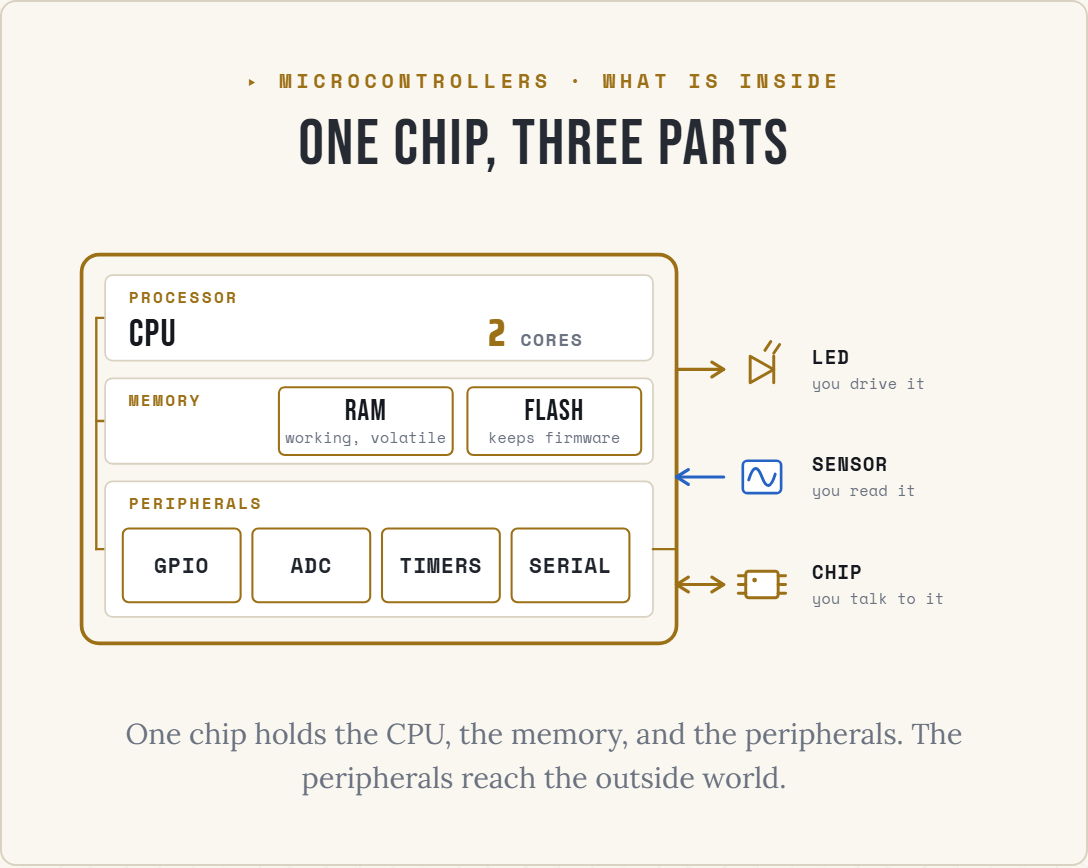
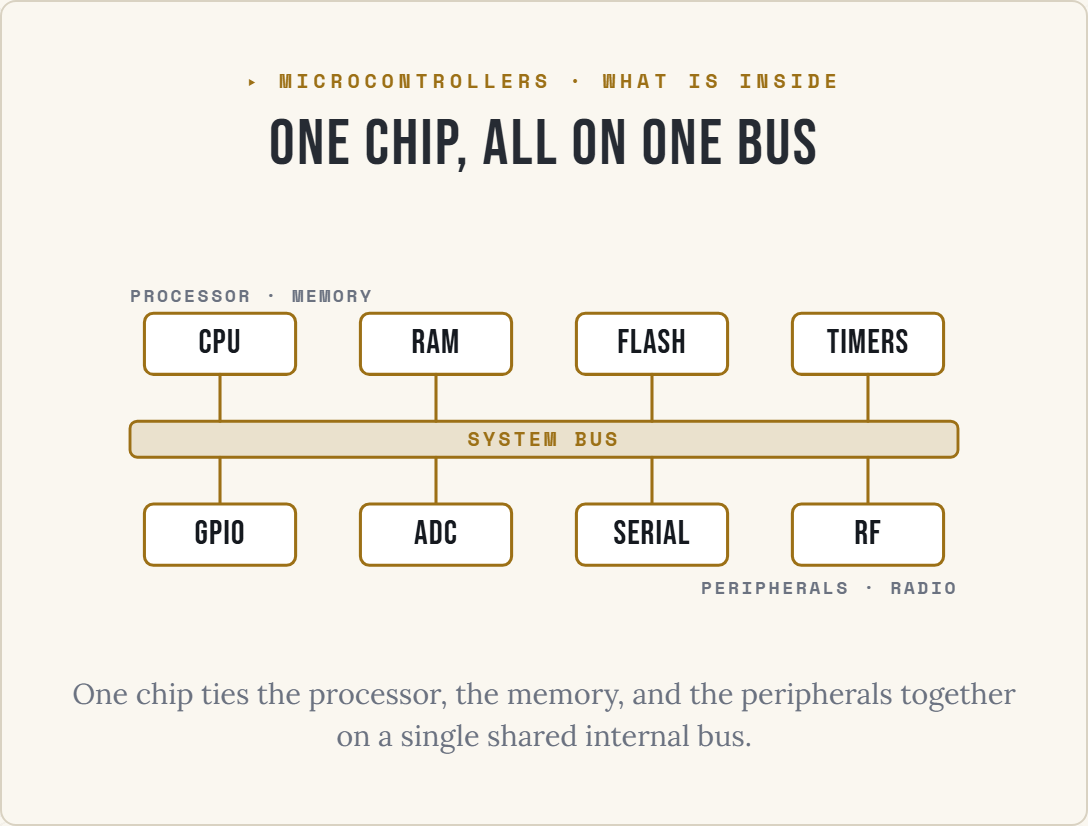
feat(diagrams): rebuild mcu-block-diagram to owner-picked B9 (bus spine)
Diagram 1 redesigned via the round-2 sandbox: owner picked B9, "the bus spine".
A single horizontal system bus with the processor + memory + timers tapping it
above and the peripherals + radio below, so the teaching point is that one chip
ties everything together on one shared internal bus. Landscape 1.33, token-only,
reflows to the bus banner + grouped rows under 520px. Verified dark + light +
print; diagrams:check OK (50).

diff --git a/src/components/guide/diagrams/McuBlockDiagram.tsx b/src/components/guide/diagrams/McuBlockDiagram.tsx
@@ -1,136 +1,73 @@
 // What is inside a microcontroller (v2). Microcontrollers & ESP32 cluster.
+// Owner-picked composition B9 ("the bus spine") from the diagram-1 round-2 sandbox.
 //
-// Teaching point: a microcontroller is one chip that holds the processor, the
-// memory, and the peripherals. The CPU and memory stay inside; the peripherals
-// (GPIO, ADC, timers, serial) are the bridge that reaches the outside world.
+// Teaching point: a microcontroller is one chip that ties a processor, memory,
+// and a set of peripherals together on a single shared internal bus. The CPU, the
+// RAM and flash, and the peripheral blocks (GPIO, ADC, timers, serial, radio) all
+// hang off that one bus.
 //
-// Landscape desktop/print: the die on the left with three stacked zones
-// (processor, memory, peripherals) tied by an internal bus, wired out on the
-// right to three things in the world (an LED it drives, a sensor it reads, a chip
-// it talks to). REFLOWS on a phone to full-width stacked cards. Token-only color.
+// Landscape desktop/print: a horizontal system bus with the blocks tapping it
+// above and below. REFLOWS on a phone to the bus + a grouped block list.
+// Token-only color.
 import { DiagramFrame } from "./DiagramFrame";
 
-function Led({ x, y }: { x: number; y: number }) {
-  return (
-    <g transform={`translate(${x},${y})`}>
-      <path className="bd-glyph-g" d="M-8,-9 L-8,9 L8,0 Z" />
-      <line className="bd-glyph-g" x1={8} y1={-9} x2={8} y2={9} />
-      <path className="bd-glyph-g" d="M2,-13 L6,-19 M8,-11 L12,-17" fill="none" />
-    </g>
-  );
-}
-
-function SensorWave({ x, y }: { x: number; y: number }) {
-  return (
-    <g transform={`translate(${x},${y})`}>
-      <rect className="bd-glyph-b-fill" x={-13} y={-11} width={26} height={22} rx={3} />
-      <path className="bd-glyph-b" fill="none" d="M-9,2 C-6,-8 -3,-8 0,0 C3,8 6,8 9,-2" />
-    </g>
-  );
-}
-
-function ChipIc({ x, y }: { x: number; y: number }) {
-  return (
-    <g transform={`translate(${x},${y})`}>
-      <rect className="bd-glyph-g-fill" x={-11} y={-9} width={22} height={18} rx={2} />
-      <circle className="bd-glyph-dot" cx={-5} cy={-3} r={1.6} />
-      {[-6, 0, 6].map((o) => (
-        <line key={`l${o}`} className="bd-glyph-g" x1={-11} y1={o} x2={-16} y2={o} />
-      ))}
-      {[-6, 0, 6].map((o) => (
-        <line key={`r${o}`} className="bd-glyph-g" x1={11} y1={o} x2={16} y2={o} />
-      ))}
-    </g>
-  );
-}
+const TOP = [
+  { n: "CPU", x: 90 }, { n: "RAM", x: 210 }, { n: "FLASH", x: 330 }, { n: "TIMERS", x: 450 },
+];
+const BOT = [
+  { n: "GPIO", x: 90 }, { n: "ADC", x: 210 }, { n: "SERIAL", x: 330 }, { n: "RF", x: 450 },
+];
+const BUS_Y = 104, BUS_H = 20;
 
 export function McuBlockDiagram({ caption }: { caption?: string }) {
   return (
     <DiagramFrame
       eyebrow="MICROCONTROLLERS · WHAT IS INSIDE"
       tone="gold"
-      title="One chip, three parts"
-      ariaLabel="What is inside a microcontroller, drawn as one chip. The die holds three stacked zones tied by an internal bus. The processor zone is the CPU, with 2 cores on the ESP32-S3. The memory zone holds RAM, the working memory that is volatile, and flash, which keeps the firmware. The peripherals zone holds GPIO, ADC, timers, and serial blocks. The peripherals are the bridge to the outside world: the chip drives an LED, reads a sensor, and talks to another chip."
+      title="One chip, all on one bus"
+      ariaLabel="What is inside a microcontroller, drawn as a shared internal bus. A single system bus runs across the middle of the chip, and every block hangs off it. Above the bus sit the processor (the CPU) and the memory (RAM, the working memory, and flash, which keeps the firmware), along with the timers. Below the bus sit the peripherals that reach the outside world: GPIO, the ADC, the serial buses, and the radio. Because they all share one bus on one die, the CPU can read and write any of them. That is what makes it one chip instead of a boardful of parts."
       caption={caption}
-      defaultCaption="One chip holds the CPU, the memory, and the peripherals. The peripherals reach the outside world."
+      defaultCaption="One chip ties the processor, the memory, and the peripherals together on a single shared internal bus."
     >
       <style>{CSS}</style>
 
       <div className="bd">
         {/* desktop / print */}
-        <svg className="bd-scene" viewBox="0 0 660 292" aria-hidden="true">
-          {/* the die */}
-          <rect className="bd-die" x={16} y={14} width={404} height={264} rx={12} />
+        <svg className="bd-scene" viewBox="0 0 540 216" aria-hidden="true">
+          {/* the system bus */}
+          <rect className="bd-busfill" x={40} y={BUS_Y} width={460} height={BUS_H} rx={4} />
+          <rect className="bd-busln" x={40} y={BUS_Y} width={460} height={BUS_H} rx={4} />
+          <text className="bd-buslbl" x={270} y={BUS_Y + 14} textAnchor="middle">SYSTEM BUS</text>
 
-          {/* internal bus spine + taps */}
-          <line className="bd-bus" x1={26} y1={57} x2={26} y2={214} />
-          <line className="bd-bus" x1={26} y1={57} x2={32} y2={57} />
-          <line className="bd-bus" x1={26} y1={127} x2={32} y2={127} />
-          <line className="bd-bus" x1={26} y1={214} x2={32} y2={214} />
-
-          {/* PROCESSOR zone */}
-          <rect className="bd-zone" x={32} y={28} width={372} height={58} rx={5} />
-          <text className="bd-zeye" x={48} y={47}>PROCESSOR</text>
-          <text className="bd-name" x={48} y={76}>CPU</text>
-          <text className="bd-num" x={292} y={76}>2</text>
-          <text className="bd-nlabel" x={314} y={76}>CORES</text>
-
-          {/* MEMORY zone */}
-          <rect className="bd-zone" x={32} y={98} width={372} height={58} rx={5} />
-          <text className="bd-zeye" x={48} y={117}>MEMORY</text>
-          <rect className="bd-cell" x={150} y={104} width={118} height={46} rx={4} />
-          <text className="bd-cname" x={209} y={126} textAnchor="middle">RAM</text>
-          <text className="bd-note" x={209} y={142} textAnchor="middle">working, volatile</text>
-          <rect className="bd-cell" x={278} y={104} width={118} height={46} rx={4} />
-          <text className="bd-cname" x={337} y={126} textAnchor="middle">FLASH</text>
-          <text className="bd-note" x={337} y={142} textAnchor="middle">keeps firmware</text>
-
-          {/* PERIPHERALS zone */}
-          <rect className="bd-zone" x={32} y={168} width={372} height={92} rx={5} />
-          <text className="bd-zeye" x={48} y={187}>PERIPHERALS</text>
-          {["GPIO", "ADC", "TIMERS", "SERIAL"].map((p, i) => (
-            <g key={p}>
-              <rect className="bd-cell" x={44 + i * 88} y={200} width={80} height={50} rx={4} />
-              <text className="bd-pname" x={84 + i * 88} y={230} textAnchor="middle">{p}</text>
+          {/* top blocks + taps */}
+          {TOP.map((b) => (
+            <g key={b.n}>
+              <rect className="bd-blk" x={b.x - 42} y={44} width={84} height={34} rx={5} />
+              <text className="bd-nm" x={b.x} y={66} textAnchor="middle">{b.n}</text>
+              <line className="bd-tap" x1={b.x} y1={78} x2={b.x} y2={BUS_Y} />
             </g>
           ))}
 
-          {/* peripherals reach out: right-edge spine tapped from the peripheral zone */}
-          <line className="bd-bus" x1={404} y1={214} x2={420} y2={214} />
-          <line className="bd-out" x1={420} y1={92} x2={420} y2={238} />
+          {/* bottom blocks + taps */}
+          {BOT.map((b) => (
+            <g key={b.n}>
+              <line className="bd-tap" x1={b.x} y1={BUS_Y + BUS_H} x2={b.x} y2={150} />
+              <rect className="bd-blk" x={b.x - 42} y={150} width={84} height={34} rx={5} />
+              <text className="bd-nm" x={b.x} y={172} textAnchor="middle">{b.n}</text>
+            </g>
+          ))}
 
-          {/* LED — driven (gold, out) */}
-          <line className="bd-out" x1={420} y1={92} x2={452} y2={92} />
-          <path className="bd-out" fill="none" d="M444,87 L452,92 L444,97" />
-          <Led x={478} y={92} />
-          <text className="bd-wname" x={512} y={88}>LED</text>
-          <text className="bd-note" x={512} y={105}>you drive it</text>
-
-          {/* SENSOR — read (blue, in) */}
-          <line className="bd-in" x1={452} y1={165} x2={420} y2={165} />
-          <path className="bd-in" fill="none" d="M428,160 L420,165 L428,170" />
-          <SensorWave x={478} y={165} />
-          <text className="bd-wname" x={512} y={161}>SENSOR</text>
-          <text className="bd-note" x={512} y={178}>you read it</text>
-
-          {/* CHIP — talk (gold, both ways) */}
-          <line className="bd-out" x1={420} y1={238} x2={452} y2={238} />
-          <path className="bd-out" fill="none" d="M444,233 L452,238 L444,243" />
-          <path className="bd-out" fill="none" d="M428,233 L420,238 L428,243" />
-          <ChipIc x={478} y={238} />
-          <text className="bd-wname" x={512} y={234}>CHIP</text>
-          <text className="bd-note" x={512} y={251}>you talk to it</text>
+          {/* role labels in the gutters */}
+          <text className="bd-role" x={40} y={38} textAnchor="start">PROCESSOR · MEMORY</text>
+          <text className="bd-role" x={500} y={200} textAnchor="end">PERIPHERALS · RADIO</text>
         </svg>
 
         {/* phone reflow */}
         <div className="bd-phone" aria-hidden="true">
-          <p className="bd-phd">Inside the chip</p>
+          <p className="bd-pbus">SYSTEM BUS <span>ties it all together</span></p>
           <div className="bd-prow"><span className="bd-peye">Processor</span><span className="bd-pv">CPU · 2 cores</span></div>
           <div className="bd-prow"><span className="bd-peye">Memory</span><span className="bd-pv">RAM (volatile) · FLASH (firmware)</span></div>
-          <div className="bd-prow"><span className="bd-peye">Peripherals</span><span className="bd-pv">GPIO · ADC · TIMERS · SERIAL</span></div>
-          <p className="bd-parrow">the peripherals reach out to</p>
-          <p className="bd-phd">The world</p>
-          <div className="bd-pworld"><span>LED <em>drive it</em></span><span>SENSOR <em>read it</em></span><span>CHIP <em>talk to it</em></span></div>
+          <div className="bd-prow"><span className="bd-peye">Peripherals</span><span className="bd-pv">GPIO · ADC · TIMERS · SERIAL · RF</span></div>
         </div>
       </div>
     </DiagramFrame>
@@ -140,36 +77,20 @@ export function McuBlockDiagram({ caption }: { caption?: string }) {
 const CSS = `
 .bd{display:block;}
 .bd-scene{display:block;width:100%;height:auto;overflow:visible;}
-.bd-die{fill:none;stroke:var(--color-command-gold,#c8963e);stroke-width:2.5;}
-.bd-zone{fill:var(--color-navy-dark,#1a1a2e);stroke:var(--color-panel-border,#3a3f50);stroke-width:1.2;}
-.bd-cell{fill:none;stroke:var(--color-command-gold,#c8963e);stroke-width:1.4;}
-.bd-bus{stroke:var(--color-command-gold,#c8963e);stroke-width:1.6;stroke-linecap:round;}
-.bd-out{fill:none;stroke:var(--color-command-gold,#c8963e);stroke-width:2.2;stroke-linecap:round;stroke-linejoin:round;}
-.bd-in{fill:none;stroke:var(--color-signal-blue,#4a8fff);stroke-width:2.2;stroke-linecap:round;stroke-linejoin:round;}
-.bd-hd{font-family:var(--font-mono,"Space Mono",monospace);font-weight:700;font-size:11px;letter-spacing:.16em;fill:var(--color-muted,#aaa);}
-.bd-zeye{font-family:var(--font-mono,"Space Mono",monospace);font-weight:700;font-size:11px;letter-spacing:.14em;fill:var(--color-command-gold,#c8963e);}
-.bd-name{font-family:var(--font-display,"Bebas Neue",sans-serif);font-size:26px;letter-spacing:.03em;fill:var(--color-title,#f1ece0);}
-.bd-num{font-family:var(--font-numeral,"Saira Condensed",sans-serif);font-weight:800;font-size:26px;fill:var(--color-command-gold,#c8963e);}
-.bd-nlabel{font-family:var(--font-mono,"Space Mono",monospace);font-weight:700;font-size:12px;letter-spacing:.1em;fill:var(--color-muted,#aaa);}
-.bd-cname{font-family:var(--font-display,"Bebas Neue",sans-serif);font-size:20px;letter-spacing:.03em;fill:var(--color-title,#f1ece0);}
-.bd-pname{font-family:var(--font-mono,"Space Mono",monospace);font-weight:700;font-size:14px;letter-spacing:.06em;fill:var(--color-text,#e8e8e8);}
-.bd-wname{font-family:var(--font-mono,"Space Mono",monospace);font-weight:700;font-size:13px;letter-spacing:.05em;fill:var(--color-title,#f1ece0);}
-.bd-note{font-family:var(--font-mono,"Space Mono",monospace);font-weight:400;font-size:10.5px;fill:var(--color-muted,#aaa);}
-.bd-glyph-g{fill:none;stroke:var(--color-command-gold,#c8963e);stroke-width:2;stroke-linecap:round;stroke-linejoin:round;}
-.bd-glyph-g-fill{fill:var(--color-navy-dark,#1a1a2e);stroke:var(--color-command-gold,#c8963e);stroke-width:2;}
-.bd-glyph-b{fill:none;stroke:var(--color-signal-blue,#4a8fff);stroke-width:2;stroke-linecap:round;stroke-linejoin:round;}
-.bd-glyph-b-fill{fill:var(--color-navy-dark,#1a1a2e);stroke:var(--color-signal-blue,#4a8fff);stroke-width:1.8;}
-.bd-glyph-dot{fill:var(--color-command-gold,#c8963e);}
+.bd-busfill{fill:var(--color-command-gold,#c8963e);opacity:.16;}
+.bd-busln{fill:none;stroke:var(--color-command-gold,#c8963e);stroke-width:1.6;}
+.bd-blk{fill:var(--color-navy-dark,#1a1a2e);stroke:var(--color-command-gold,#c8963e);stroke-width:1.7;}
+.bd-tap{stroke:var(--color-command-gold,#c8963e);stroke-width:1.7;stroke-linecap:round;}
+.bd-buslbl{font-family:var(--font-mono,"Space Mono",monospace);font-weight:700;font-size:11px;letter-spacing:.16em;fill:var(--color-command-gold,#c8963e);}
+.bd-nm{font-family:var(--font-display,"Bebas Neue",sans-serif);font-size:19px;letter-spacing:.03em;fill:var(--color-title,#f1ece0);}
+.bd-role{font-family:var(--font-mono,"Space Mono",monospace);font-weight:700;font-size:10px;letter-spacing:.14em;fill:var(--color-muted,#aaa);}
 
 /* phone reflow */
 .bd-phone{display:none;}
 @media (max-width:520px){ .bd-scene{display:none;} .bd-phone{display:block;text-align:left;} }
-.bd-phd{margin:.2rem 0 .5rem;font-family:var(--font-mono,"Space Mono",monospace);font-weight:700;font-size:.72rem;letter-spacing:.16em;text-transform:uppercase;color:var(--color-muted,#aaa);}
+.bd-pbus{margin:0 0 .7rem;text-align:center;font-family:var(--font-mono,"Space Mono",monospace);font-weight:700;font-size:.82rem;letter-spacing:.14em;color:var(--color-command-gold,#c8963e);border:1px solid var(--color-command-gold,#c8963e);border-radius:5px;padding:.4rem;background:color-mix(in srgb, var(--color-command-gold,#c8963e) 12%, transparent);}
+.bd-pbus span{display:block;font-weight:400;font-size:.66rem;letter-spacing:.04em;color:var(--color-muted,#aaa);margin-top:.15rem;}
 .bd-prow{display:flex;flex-direction:column;gap:.15rem;border:1px solid var(--color-panel-border,#3a3f50);background:var(--color-navy-dark,#1a1a2e);border-radius:6px;padding:.55rem .7rem;margin-bottom:.5rem;}
 .bd-peye{font-family:var(--font-mono,"Space Mono",monospace);font-weight:700;font-size:.66rem;letter-spacing:.12em;text-transform:uppercase;color:var(--color-command-gold,#c8963e);}
 .bd-pv{font-family:var(--font-mono,"Space Mono",monospace);font-size:.92rem;color:var(--color-text,#e8e8e8);}
-.bd-parrow{margin:.1rem 0 .6rem;text-align:center;font-family:var(--font-serif,"Lora",serif);font-style:italic;font-size:.85rem;color:var(--color-command-gold,#c8963e);}
-.bd-pworld{display:flex;flex-direction:column;gap:.4rem;}
-.bd-pworld span{font-family:var(--font-mono,"Space Mono",monospace);font-weight:700;font-size:.9rem;color:var(--color-title,#f1ece0);}
-.bd-pworld em{font-style:normal;font-weight:400;font-size:.82rem;color:var(--color-muted,#aaa);}
 `;
